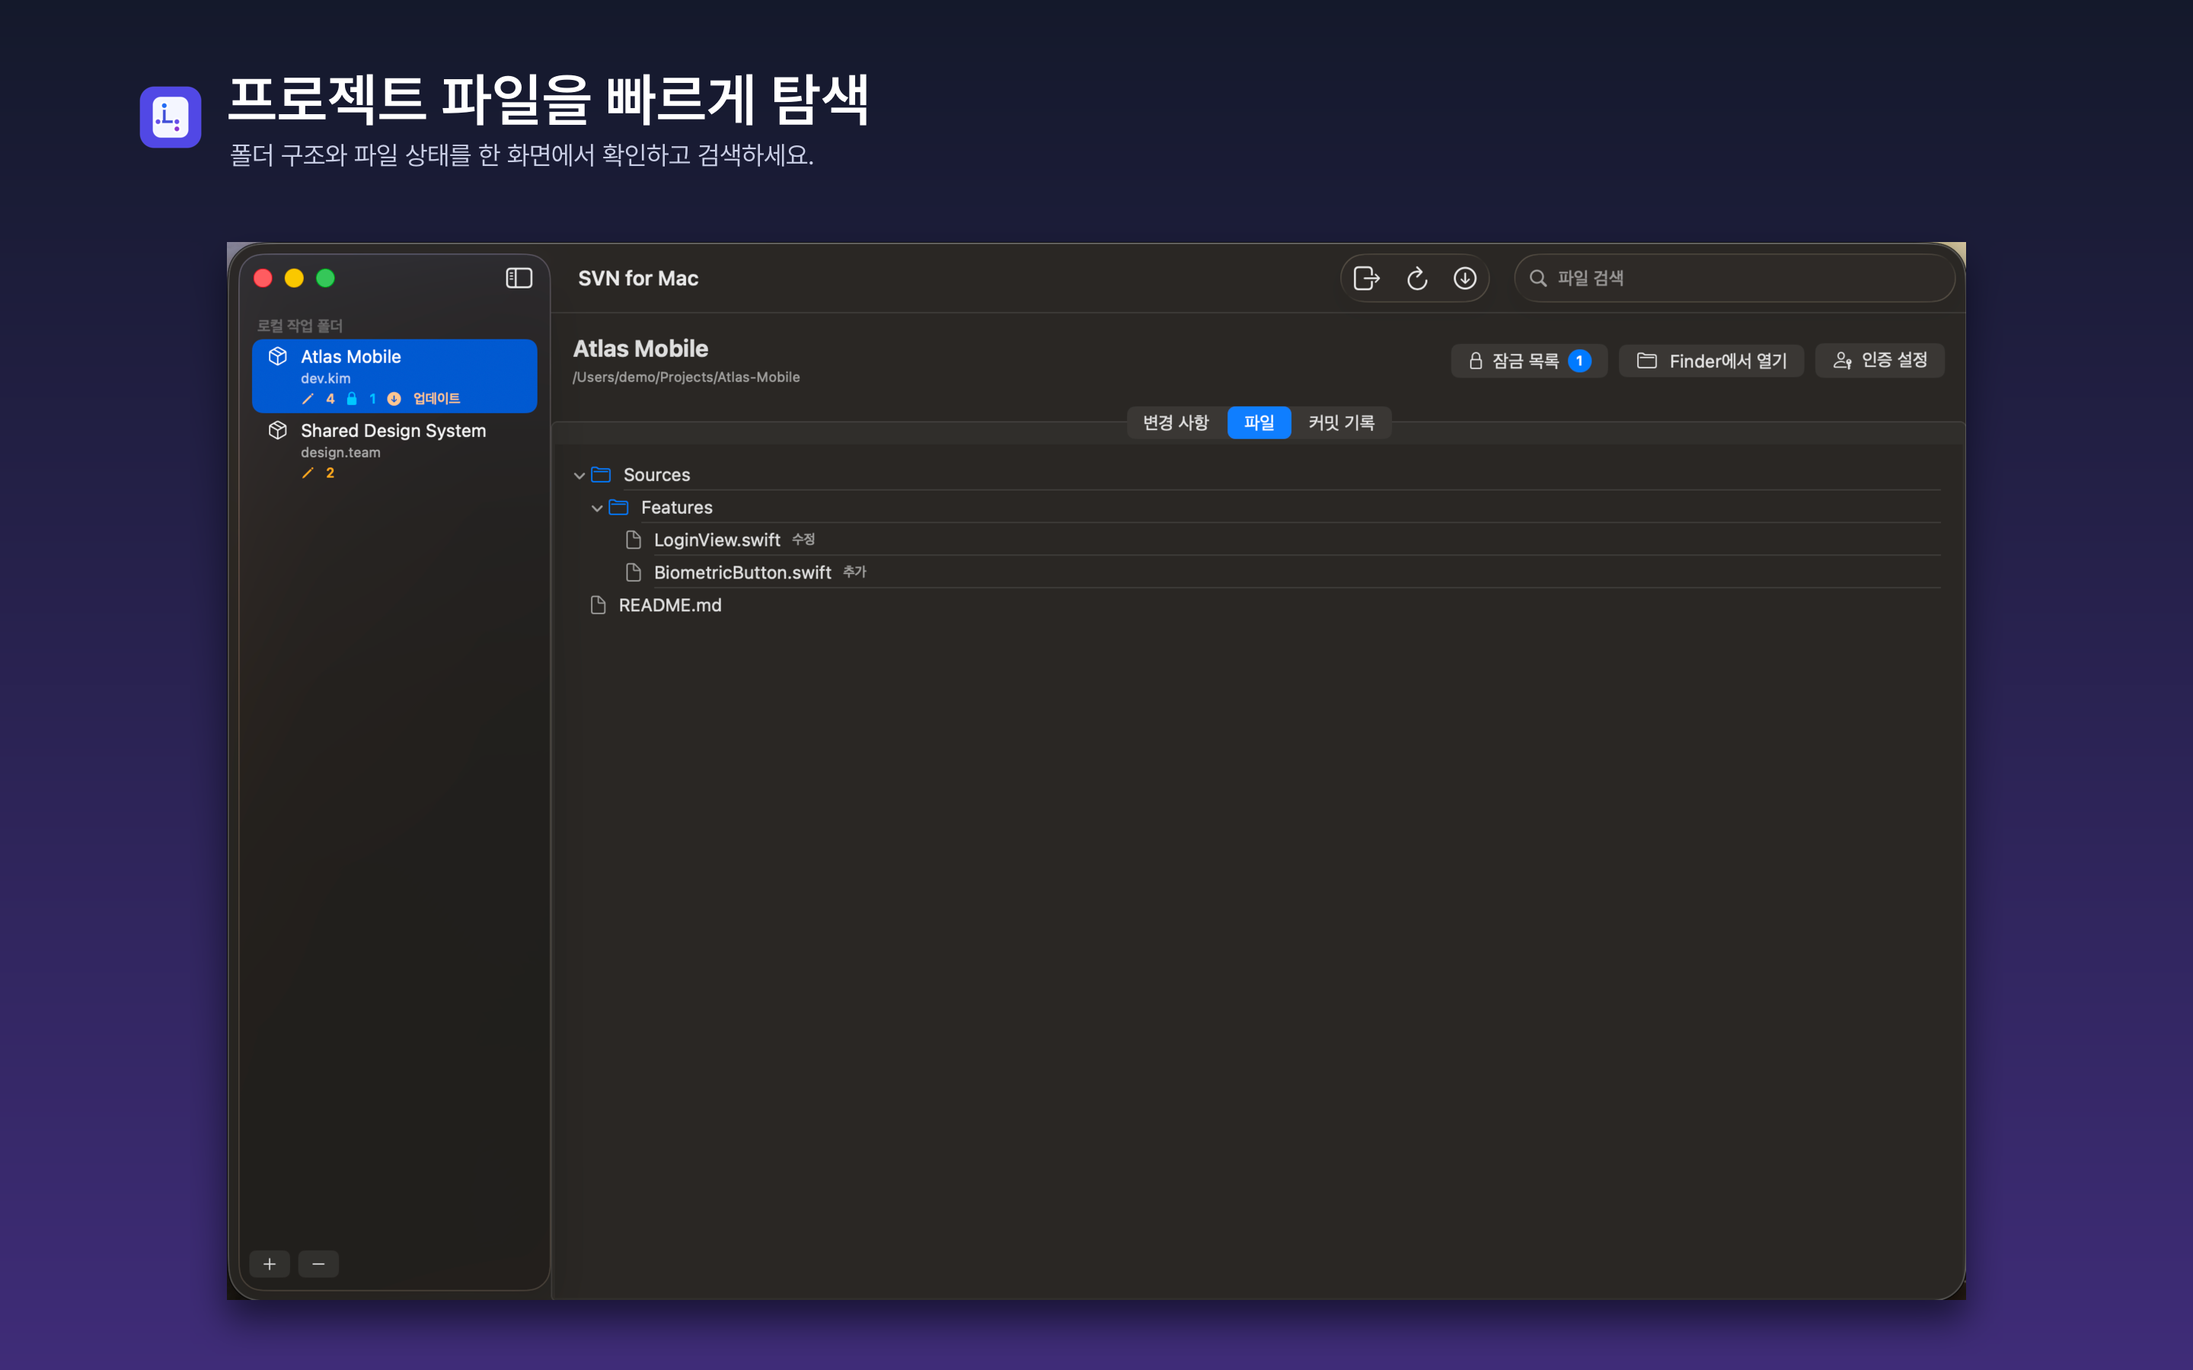
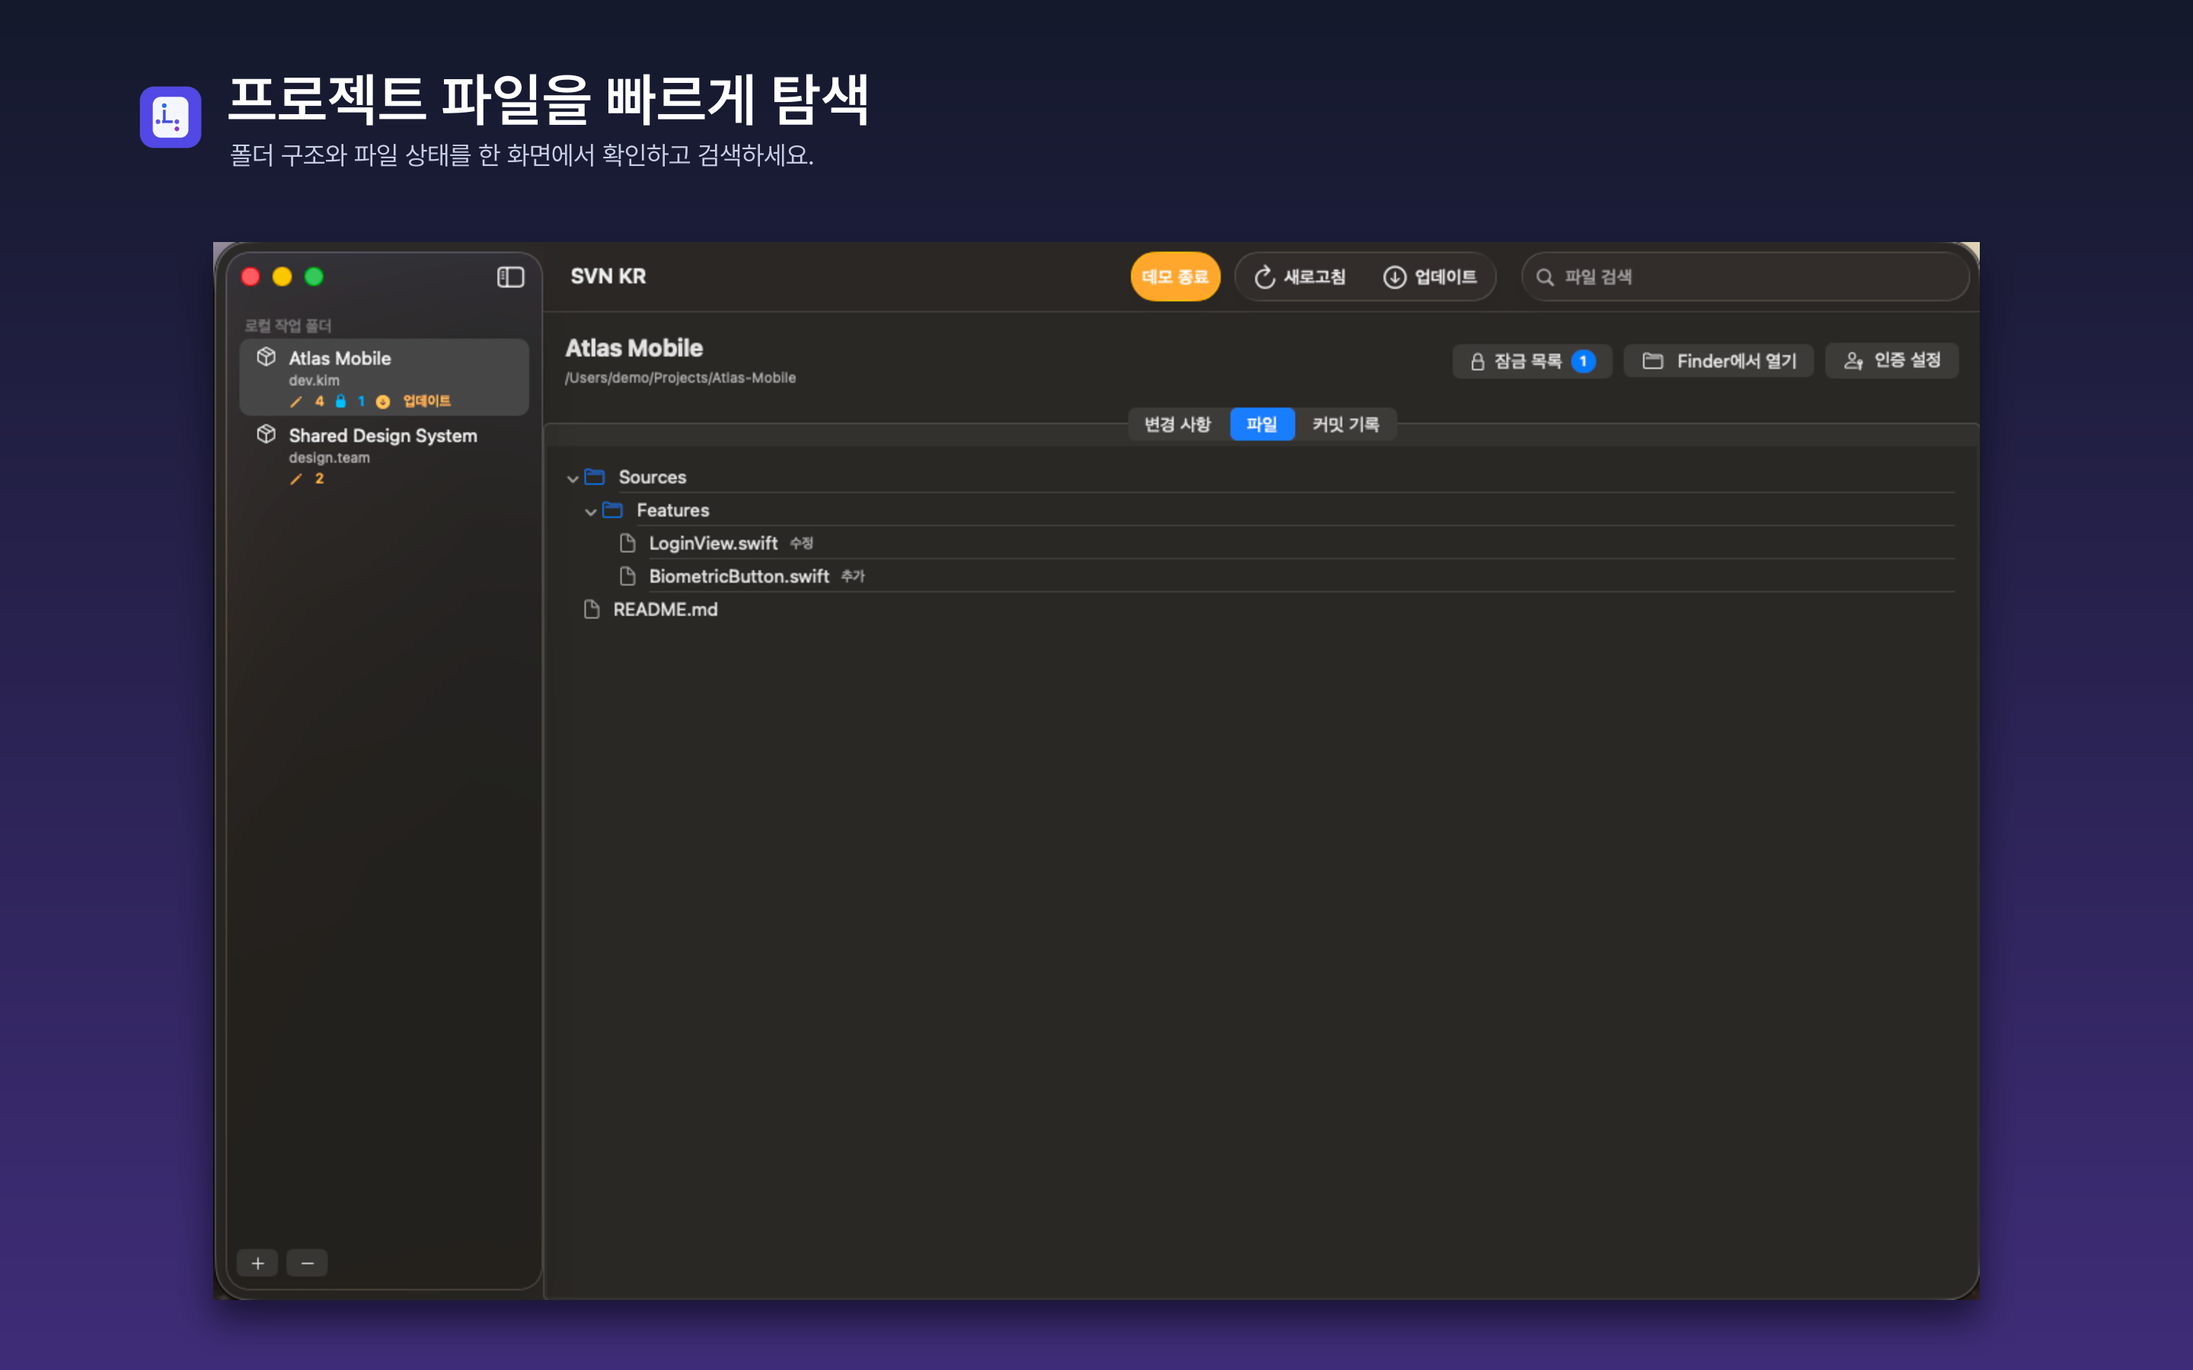
feat: SVN KR 리브랜딩 및 0.5.15 배포

diff --git a/Sources/SVNMac/AppAboutView.swift b/Sources/SVNMac/AppAboutView.swift
@@ -20,7 +20,7 @@ struct AppAboutView: View {
                 .frame(width: 88, height: 88)
 
             VStack(spacing: 4) {
-                Text("SVN for Mac")
+                Text("SVN KR")
                     .font(.title2.bold())
                 Text(appLanguage.text("버전 \(version) (\(build))", "Version \(version) (\(build))"))
                     .foregroundStyle(.secondary)
@@ -33,7 +33,7 @@ struct AppAboutView: View {
             }
             .disabled(updateChecker.manualStatus == .checking)
 
-            Text("© 2026 MR.DEVELLO")
+            Text("© 2026 Taehyun Kim")
                 .font(.caption)
                 .foregroundStyle(.secondary)
         }
@@ -81,7 +81,7 @@ struct SVNMacCommands: Commands {
 
     var body: some Commands {
         CommandGroup(replacing: .appInfo) {
-            Button(appLanguage.text("SVN for Mac 정보", "About SVN for Mac")) {
+            Button(appLanguage.text("SVN KR 정보", "About SVN KR")) {
                 openWindow(id: "app-about")
             }
         }

diff --git a/Tests/SVNMacTests/AppReviewReadinessTests.swift b/Tests/SVNMacTests/AppReviewReadinessTests.swift
@@ -23,8 +23,9 @@ struct AppReviewReadinessTests {
             PropertyListSerialization.propertyList(from: plist, format: nil) as? [String: Any]
         )
 
-        #expect(values["CFBundleName"] as? String == "SVN for Mac")
+        #expect(values["CFBundleName"] as? String == "SVN KR")
         #expect(values["CFBundleIdentifier"] as? String == "com.mrdevello.svnmac")
+        #expect(values["NSHumanReadableCopyright"] as? String == "© 2026 Taehyun Kim")
     }
 
     @Test func firstRunRepositorySheetExposesSampleProjectEntry() throws {

diff --git a/Sources/SVNMac/ProjectStore+Locking.swift b/Sources/SVNMac/ProjectStore+Locking.swift
@@ -67,7 +67,7 @@ extension ProjectStore {
         let operationID = beginOperation(.lock(project.id))
         defer { endOperation(operationID) }
         do {
-            let comment = AppLanguage.current.text("SVN for Mac에서 문서 편집 중", "Editing document in SVN for Mac")
+            let comment = AppLanguage.current.text("SVN KR에서 문서 편집 중", "Editing document in SVN KR")
             _ = try await client.lock(
                 at: project.path,
                 relativePath: request.repositoryRelativePath,

diff --git a/Sources/SVNMac/KeychainStore.swift b/Sources/SVNMac/KeychainStore.swift
@@ -34,7 +34,7 @@ enum KeychainStore {
             kSecAttrAccount as String: projectID.uuidString,
         ]
         let attributes: [String: Any] = [
-            kSecAttrLabel as String: "SVN for Mac - \(projectID.uuidString)",
+            kSecAttrLabel as String: "SVN KR - \(projectID.uuidString)",
             kSecValueData as String: Data(password.utf8),
         ]
         // 먼저 기존 항목 갱신을 시도하고, 없을 때만 새 항목을 추가합니다.

diff --git a/Tests/SVNMacTests/AppUpdateCheckerTests.swift b/Tests/SVNMacTests/AppUpdateCheckerTests.swift
@@ -38,7 +38,7 @@ struct AppUpdateCheckerTests {
         )
 
         #expect(source.contains("checkAutomaticallyIfNeeded()"))
-        #expect(source.contains("Window(appLanguage.text(\"SVN for Mac 정보\""))
+        #expect(source.contains("Window(appLanguage.text(\"SVN KR 정보\""))
         #expect(about.contains("CommandGroup(replacing: .appInfo)"))
         #expect(about.contains("업데이트 확인"))
         #expect(about.contains("App Store에서 보기"))

diff --git a/Sources/SVNMac/SVNMacApp.swift b/Sources/SVNMac/SVNMacApp.swift
@@ -101,7 +101,7 @@ struct SVNMacApp: App {
                 .buttonStyle(.bordered)
         }
 
-        Window(appLanguage.text("SVN for Mac 정보", "About SVN for Mac"), id: "app-about") {
+        Window(appLanguage.text("SVN KR 정보", "About SVN KR"), id: "app-about") {
             AppAboutView(updateChecker: updateChecker)
                 .environment(\.appLanguage, appLanguage)
                 .buttonStyle(.bordered)

diff --git a/README.md b/README.md
@@ -1,4 +1,4 @@
-# SVN for Mac
+# SVN KR
 
 여러 SVN 로컬 작업 폴더를 한곳에서 관리하기 위한 가벼운 macOS 네이티브 앱입니다. 복잡한 SVN 명령을 외우지 않아도 변경 확인부터 업데이트, 커밋 기록 조회, 선택 커밋까지 처리하는 것을 목표로 합니다. 배포 앱에는 SVN CLI와 필요한 라이브러리가 포함되므로 사용자가 Homebrew나 SVN을 별도로 설치할 필요가 없습니다.
 
@@ -31,7 +31,7 @@
 
 ## 실행
 
-소스에서 실행하려면 macOS 14 이상, Xcode 16 이상, SVN CLI가 필요합니다. `dist/SVN for Mac.app`을 사용하는 일반 사용자는 Xcode, Homebrew, SVN이 필요하지 않습니다.
+소스에서 실행하려면 macOS 14 이상, Xcode 16 이상, SVN CLI가 필요합니다. `dist/SVN KR.app`을 사용하는 일반 사용자는 Xcode, Homebrew, SVN이 필요하지 않습니다.
 
 ```bash
 swift run SVNMac
@@ -43,10 +43,10 @@ swift run SVNMac
 swift test
 ./scripts/build-svn-runtime.sh
 ./scripts/package-app.sh
-open 'dist/SVN for Mac.app'
+open 'dist/SVN KR.app'
 ```
 
-생성된 앱은 `dist/SVN for Mac.app`, 공유용 압축 파일은 `dist/SVN-for-Mac-버전-아키텍처.zip`에 있습니다. 런타임 빌더는 SVN 1.14.5와 SQLite 3.51.0을 포함한 의존성을 고정된 공식 소스와 SHA-256으로 검증한 뒤 macOS 14 arm64 대상으로 정적 링크합니다. 패키징 스크립트는 `.build/svn-runtime/macos-14-arm64`의 검증된 결과만 앱에 포함하므로 빌드 Mac의 Homebrew SVN·SQLite·OpenSSL 버전에 영향을 받지 않습니다. 반복 또는 오프라인 빌드에서는 `SVN_RUNTIME_CACHE=/path/to/cache`로 검증된 소스 아카이브 캐시를 지정할 수 있습니다. 현재 기본값은 로컬 실행용 ad-hoc 서명입니다.
+생성된 앱은 `dist/SVN KR.app`, 공유용 압축 파일은 `dist/SVN-KR-버전-아키텍처.zip`에 있습니다. 런타임 빌더는 SVN 1.14.5와 SQLite 3.51.0을 포함한 의존성을 고정된 공식 소스와 SHA-256으로 검증한 뒤 macOS 14 arm64 대상으로 정적 링크합니다. 패키징 스크립트는 `.build/svn-runtime/macos-14-arm64`의 검증된 결과만 앱에 포함하므로 빌드 Mac의 Homebrew SVN·SQLite·OpenSSL 버전에 영향을 받지 않습니다. 반복 또는 오프라인 빌드에서는 `SVN_RUNTIME_CACHE=/path/to/cache`로 검증된 소스 아카이브 캐시를 지정할 수 있습니다. 현재 기본값은 로컬 실행용 ad-hoc 서명입니다.
 
 Developer ID가 있다면 다음처럼 서명할 수 있습니다. 이후 `notarytool`로 공증하고 티켓을 첨부해야 일반 사용자가 별도 보안 예외 없이 실행할 수 있습니다.
 
@@ -66,7 +66,7 @@ INSTALLER_SIGN_IDENTITY='3rd Party Mac Developer Installer: 회사명 (TEAMID)' 
 ./scripts/package-app-store.sh
 ```
 
-생성된 `dist/SVN-for-Mac-버전-app-store.pkg`는 Transporter로 App Store Connect에
+생성된 `dist/SVN-KR-버전-app-store.pkg`는 Transporter로 App Store Connect에
 업로드할 수 있습니다. 스토어 빌드는 App Sandbox를 사용하며 사용자가 선택한 로컬
 작업 폴더 권한을 보안 범위 북마크로 유지합니다.
 

diff --git a/store-assets/metadata/en.md b/store-assets/metadata/en.md
@@ -2,7 +2,7 @@
 
 ## App Name
 
-SVN for Mac
+SVN KR
 
 ## Subtitle
 
@@ -10,13 +10,13 @@ A focused native SVN client
 
 ## Promotional Text
 
-Review changes, inspect diffs, compare revisions, and browse commit history across multiple SVN working copies in one native Mac app.
+Review changes, inspect diffs, compare revisions, and browse commit history across multiple SVN working copies in one native macOS app.
 
 ## Description
 
-SVN for Mac is a native macOS client for managing multiple Subversion working copies in one place.
+SVN KR is a native macOS client for managing multiple Subversion working copies in one place.
 
-Handle everyday SVN tasks without memorizing complex commands. Review local changes, inspect file diffs, commit selected files, update a working copy, and browse server history from a focused Mac interface.
+Handle everyday SVN tasks without memorizing complex commands. Review local changes, inspect file diffs, commit selected files, update a working copy, and browse server history from a focused macOS interface.
 
 Key features
 
@@ -32,7 +32,7 @@ Key features
 • Switch between Korean and English interfaces
 • Choose the time zone used for commit timestamps
 
-SVN for Mac includes the command-line tools and libraries it needs, so users don't need to install Homebrew or SVN separately.
+SVN KR includes the command-line tools and libraries it needs, so users don't need to install Homebrew or SVN separately.
 
 Passwords are stored in macOS Keychain instead of app preference files. Repository connections go directly to the SVN server configured by the user.
 
@@ -46,13 +46,7 @@ Primary: Developer Tools
 
 Secondary: Productivity
 
-## Version 0.4.1 Release Notes
+## Version 0.5.15 Release Notes
 
-• Fixed checkout into user-selected folders under App Sandbox
-• Added a per-repository option for self-signed certificates and hostname mismatches
-• Added a button to open the current SVN working folder in Finder
-• Replaced diff errors for unversioned files with a clear status message
-• Fixed the final Korean character sometimes being omitted from commit messages
-• Cleared messages after commits and refreshed automatically when the window becomes active
-• Determined update status from actual remote changes for mixed-revision working copies
-• Removed quarantine attributes from App Store package contents
+• Renamed the app to SVN KR and updated related screens and metadata.
+• Restored the copyright holder in the About window and app bundle metadata.

diff --git a/store-assets/metadata/ko.md b/store-assets/metadata/ko.md
@@ -2,7 +2,7 @@
 
 ## 앱 이름
 
-SVN for Mac
+SVN KR
 
 ## 부제
 
@@ -14,7 +14,7 @@ SVN for Mac
 
 ## 설명
 
-SVN for Mac은 여러 Subversion 작업 폴더를 한곳에서 관리하는 macOS 네이티브 클라이언트입니다.
+SVN KR은 여러 Subversion 작업 폴더를 한곳에서 관리하는 macOS 네이티브 클라이언트입니다.
 
 복잡한 명령을 외우지 않아도 로컬 변경 사항 확인부터 파일별 diff, 선택 커밋, 업데이트와 서버 커밋 기록 조회까지 일상적인 SVN 작업을 처리할 수 있습니다.
 
@@ -46,16 +46,10 @@ SVN 실행에 필요한 도구와 라이브러리가 앱에 포함되므로 Home
 
 보조: Productivity
 
-## 버전 0.4.1 출시 노트
+## 버전 0.5.15 출시 노트
 
-• App Sandbox 환경에서 선택한 폴더로 체크아웃하지 못하던 문제 수정
-• 자체 서명 또는 호스트명이 다른 SSL 인증서를 저장소별로 허용하는 옵션 추가
-• 현재 SVN 작업 폴더를 Finder에서 바로 여는 버튼 추가
-• 미추적 파일 선택 시 diff 오류 대신 상태 안내 표시
-• 한글 커밋 메시지의 마지막 글자가 누락될 수 있는 문제 수정
-• 커밋 완료 후 메시지 초기화 및 창 활성화 시 자동 새로고침 추가
-• 혼합 리비전 작업 사본의 업데이트 필요 상태를 실제 서버 변경 기준으로 판정
-• App Store 패키지에 남을 수 있는 quarantine 확장 속성 제거
+• 앱 이름을 SVN KR로 변경하고 관련 화면과 메타데이터를 정리했습니다.
+• 앱 정보 화면과 번들 메타데이터에 저작권자 표기를 복구했습니다.
 
 ## 별도 입력이 필요한 URL
 

diff --git a/store-assets/metadata/beta-review-en.md b/store-assets/metadata/beta-review-en.md
@@ -2,11 +2,11 @@
 
 ## Sign-in Required
 
-No. SVN for Mac does not require an app account.
+No. SVN KR does not require an app account.
 
 ## Review Notes
 
-SVN for Mac includes an in-app sample project so the main features can be reviewed without an SVN server or account.
+SVN KR includes an in-app sample project so the main features can be reviewed without an SVN server or account.
 
 1. Launch the app.
 2. In the initial Add SVN Repository window, click **Browse Sample Project**.
@@ -21,10 +21,11 @@ Hello,
 
 Thank you for your review.
 
-We addressed both issues in a new build:
+In response to the Guideline 5.2.5 feedback, we renamed the app from **SVN for Mac** to **SVN KR**.
 
-1. The installed application name is now **SVN for Mac**, matching the product name in App Store Connect. We also updated the related metadata and screenshots. The Bundle Identifier remains unchanged.
-2. The app does not require a user account. We added an in-app demonstration mode containing sample working copies, local changes, diffs, file data, repository locks, remote changes, and commit history.
+We removed the term **for Mac** and updated the app name consistently across the App Store Connect metadata, installed application name, in-app references, and screenshots. The Bundle Identifier (`com.mrdevello.svnmac`) remains unchanged so existing users can continue to receive updates.
+
+The app does not require a user account. It includes an in-app demonstration mode containing sample working copies, local changes, diffs, file data, repository locks, remote changes, and commit history.
 
 To access the demonstration mode:
 

diff --git a/store-assets/metadata/privacy-policy-ko.md b/store-assets/metadata/privacy-policy-ko.md
@@ -1,12 +1,12 @@
-# SVN for Mac 개인정보 처리방침
+# SVN KR 개인정보 처리방침
 
 최종 수정일: 2026년 7월 16일
 
-SVN for Mac은 사용자가 등록한 SVN 저장소와 로컬 작업 폴더를 관리하기 위한 macOS 애플리케이션입니다.
+SVN KR은 사용자가 등록한 SVN 저장소와 로컬 작업 폴더를 관리하기 위한 macOS 애플리케이션입니다.
 
 ## 수집하는 정보
 
-SVN for Mac 개발자는 앱을 통해 개인정보, 사용 분석 정보 또는 광고 식별자를 별도로 수집하지 않습니다.
+SVN KR 개발자는 앱을 통해 개인정보, 사용 분석 정보 또는 광고 식별자를 별도로 수집하지 않습니다.
 
 사용자가 입력한 SVN 사용자명은 앱의 로컬 설정에 저장될 수 있습니다. 비밀번호는 macOS Keychain에 저장되며 앱 설정 파일에는 기록되지 않습니다.
 
@@ -16,7 +16,7 @@ SVN for Mac 개발자는 앱을 통해 개인정보, 사용 분석 정보 또는
 
 ## 데이터 공유
 
-SVN for Mac 개발자는 앱을 통해 사용자 데이터를 수집하거나 제3자에게 판매 또는 공유하지 않습니다.
+SVN KR 개발자는 앱을 통해 사용자 데이터를 수집하거나 제3자에게 판매 또는 공유하지 않습니다.
 
 ## 데이터 삭제
 

diff --git a/store-assets/metadata/privacy-policy-en.md b/store-assets/metadata/privacy-policy-en.md
@@ -1,12 +1,12 @@
-# SVN for Mac Privacy Policy
+# SVN KR Privacy Policy
 
 Last updated: July 16, 2026
 
-SVN for Mac is a macOS application for managing SVN repositories and local working copies configured by the user.
+SVN KR is a macOS application for managing SVN repositories and local working copies configured by the user.
 
 ## Information Collection
 
-The developer of SVN for Mac does not independently collect personal information, usage analytics, or advertising identifiers through the app.
+The developer of SVN KR does not independently collect personal information, usage analytics, or advertising identifiers through the app.
 
 An SVN username entered by the user may be stored in local app preferences. Passwords are stored in macOS Keychain and are not written to app preference files.
 
@@ -16,7 +16,7 @@ The app communicates with SVN servers configured directly by the user. Account i
 
 ## Data Sharing
 
-The developer of SVN for Mac does not collect, sell, or share user data through the app.
+The developer of SVN KR does not collect, sell, or share user data through the app.
 
 ## Data Deletion
 
